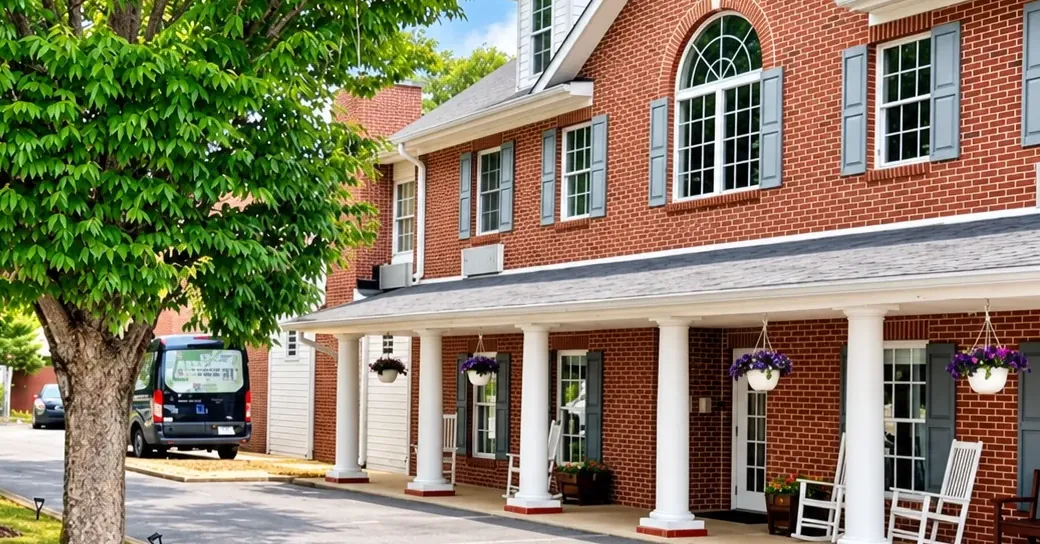
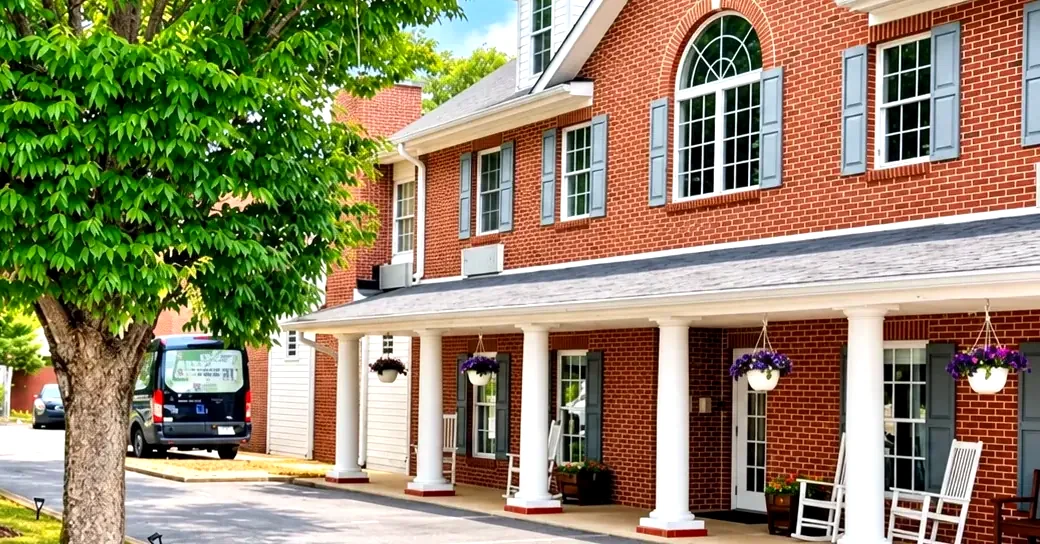
Home hero: bright photo with no dark overlay, text on a white panel

diff --git a/public/index.html b/public/index.html
@@ -17,7 +17,7 @@
   <link rel="preconnect" href="https://fonts.googleapis.com">
   <link rel="preconnect" href="https://fonts.gstatic.com" crossorigin>
   <link href="https://fonts.googleapis.com/css2?family=Montserrat:wght@500;600;700&amp;family=Open+Sans:ital,wght@0,400;0,600;0,700;1,400&amp;display=swap" rel="stylesheet">
-  <link rel="stylesheet" href="/assets/css/main.css?v=37420e40">
+  <link rel="stylesheet" href="/assets/css/main.css?v=fd787a46">
   <!-- Google tag: Ads conversion tracking + GA4. IDs stamped in by setup-ids.sh -->
   <script async src="https://www.googletagmanager.com/gtag/js?id=AW_CONVERSION_ID"></script>
   <script>
@@ -111,9 +111,11 @@
 <main id="main">
 <section class="hero hero-photo hero-landing" style="background-image:url('/assets/img/hero-exterior.webp')">
   <div class="container">
-    <h1><span class="hero-kicker">Assisted Living in</span> Hixson, Tennessee</h1>
-    <p class="tagline">A warm and welcoming community where personalized care, meaningful relationships, and a vibrant lifestyle come together.</p>
-    <a href="/contact-us/" class="btn btn-primary btn-arrow">Schedule a Tour <span aria-hidden="true">&rarr;</span></a>
+    <div class="hero-panel">
+      <h1><span class="hero-kicker">Assisted Living in</span> Hixson, Tennessee</h1>
+      <p class="tagline">A warm and welcoming community where personalized care, meaningful relationships, and a vibrant lifestyle come together.</p>
+      <a href="/contact-us/" class="btn btn-primary btn-arrow">Schedule a Tour <span aria-hidden="true">&rarr;</span></a>
+    </div>
   </div>
 </section>
 

diff --git a/public/assets/css/main.css b/public/assets/css/main.css
@@ -618,3 +618,12 @@ h3 { font-weight: 600; font-size: 1.15rem; }
 .main-nav a, .main-nav .has-sub > button, .phone-link { font-family: var(--font-ui); font-weight: 600; font-size: 0.95rem; }
 .feature-strip li, .pillars strong, .icon-grid strong, .card h3, .contact-info-card h3, .site-footer h3, .testimonial cite { font-family: var(--font-ui); }
 .icon-grid strong { font-size: 1.02rem; font-weight: 600; }
+
+/* Home hero: bright photo, no dark overlay; text sits on a soft white panel */
+.hero-landing::before { background: linear-gradient(90deg, rgba(255,255,255,0.08) 0%, rgba(255,255,255,0) 100%); }
+.hero-landing { background-position: center 58%; }
+.hero-landing .hero-panel { display: inline-block; max-width: 620px; background: rgba(255,255,255,0.90); border-radius: var(--radius); padding: 2rem 2.25rem; box-shadow: 0 10px 40px rgba(20,40,60,0.18); border-left: 5px solid var(--green); }
+.hero-landing h1 { color: var(--navy); text-shadow: none; font-size: clamp(2rem, 4.4vw, 3.2rem); }
+.hero-landing .tagline { color: var(--ink); text-shadow: none; }
+.hero-landing .hero-kicker { color: var(--green); }
+@media (max-width: 760px) { .hero-landing .hero-panel { padding: 1.5rem 1.25rem; max-width: 100%; } .hero-landing { background-position: 62% 55%; } }

diff --git a/content/index.html b/content/index.html
@@ -6,9 +6,11 @@ nav: home
 -->
 <section class="hero hero-photo hero-landing" style="background-image:url('/assets/img/hero-exterior.webp')">
   <div class="container">
-    <h1><span class="hero-kicker">Assisted Living in</span> Hixson, Tennessee</h1>
-    <p class="tagline">A warm and welcoming community where personalized care, meaningful relationships, and a vibrant lifestyle come together.</p>
-    <a href="/contact-us/" class="btn btn-primary btn-arrow">Schedule a Tour <span aria-hidden="true">&rarr;</span></a>
+    <div class="hero-panel">
+      <h1><span class="hero-kicker">Assisted Living in</span> Hixson, Tennessee</h1>
+      <p class="tagline">A warm and welcoming community where personalized care, meaningful relationships, and a vibrant lifestyle come together.</p>
+      <a href="/contact-us/" class="btn btn-primary btn-arrow">Schedule a Tour <span aria-hidden="true">&rarr;</span></a>
+    </div>
   </div>
 </section>
 

diff --git a/public/404.html b/public/404.html
@@ -17,7 +17,7 @@
   <link rel="preconnect" href="https://fonts.googleapis.com">
   <link rel="preconnect" href="https://fonts.gstatic.com" crossorigin>
   <link href="https://fonts.googleapis.com/css2?family=Montserrat:wght@500;600;700&amp;family=Open+Sans:ital,wght@0,400;0,600;0,700;1,400&amp;display=swap" rel="stylesheet">
-  <link rel="stylesheet" href="/assets/css/main.css?v=37420e40">
+  <link rel="stylesheet" href="/assets/css/main.css?v=fd787a46">
   <!-- Google tag: Ads conversion tracking + GA4. IDs stamped in by setup-ids.sh -->
   <script async src="https://www.googletagmanager.com/gtag/js?id=AW_CONVERSION_ID"></script>
   <script>

diff --git a/public/about-us/index.html b/public/about-us/index.html
@@ -17,7 +17,7 @@
   <link rel="preconnect" href="https://fonts.googleapis.com">
   <link rel="preconnect" href="https://fonts.gstatic.com" crossorigin>
   <link href="https://fonts.googleapis.com/css2?family=Montserrat:wght@500;600;700&amp;family=Open+Sans:ital,wght@0,400;0,600;0,700;1,400&amp;display=swap" rel="stylesheet">
-  <link rel="stylesheet" href="/assets/css/main.css?v=37420e40">
+  <link rel="stylesheet" href="/assets/css/main.css?v=fd787a46">
   <!-- Google tag: Ads conversion tracking + GA4. IDs stamped in by setup-ids.sh -->
   <script async src="https://www.googletagmanager.com/gtag/js?id=AW_CONVERSION_ID"></script>
   <script>

diff --git a/public/ada-compliance/index.html b/public/ada-compliance/index.html
@@ -17,7 +17,7 @@
   <link rel="preconnect" href="https://fonts.googleapis.com">
   <link rel="preconnect" href="https://fonts.gstatic.com" crossorigin>
   <link href="https://fonts.googleapis.com/css2?family=Montserrat:wght@500;600;700&amp;family=Open+Sans:ital,wght@0,400;0,600;0,700;1,400&amp;display=swap" rel="stylesheet">
-  <link rel="stylesheet" href="/assets/css/main.css?v=37420e40">
+  <link rel="stylesheet" href="/assets/css/main.css?v=fd787a46">
   <!-- Google tag: Ads conversion tracking + GA4. IDs stamped in by setup-ids.sh -->
   <script async src="https://www.googletagmanager.com/gtag/js?id=AW_CONVERSION_ID"></script>
   <script>

diff --git a/public/amenities/index.html b/public/amenities/index.html
@@ -17,7 +17,7 @@
   <link rel="preconnect" href="https://fonts.googleapis.com">
   <link rel="preconnect" href="https://fonts.gstatic.com" crossorigin>
   <link href="https://fonts.googleapis.com/css2?family=Montserrat:wght@500;600;700&amp;family=Open+Sans:ital,wght@0,400;0,600;0,700;1,400&amp;display=swap" rel="stylesheet">
-  <link rel="stylesheet" href="/assets/css/main.css?v=37420e40">
+  <link rel="stylesheet" href="/assets/css/main.css?v=fd787a46">
   <!-- Google tag: Ads conversion tracking + GA4. IDs stamped in by setup-ids.sh -->
   <script async src="https://www.googletagmanager.com/gtag/js?id=AW_CONVERSION_ID"></script>
   <script>

diff --git a/public/assisted-living/index.html b/public/assisted-living/index.html
@@ -17,7 +17,7 @@
   <link rel="preconnect" href="https://fonts.googleapis.com">
   <link rel="preconnect" href="https://fonts.gstatic.com" crossorigin>
   <link href="https://fonts.googleapis.com/css2?family=Montserrat:wght@500;600;700&amp;family=Open+Sans:ital,wght@0,400;0,600;0,700;1,400&amp;display=swap" rel="stylesheet">
-  <link rel="stylesheet" href="/assets/css/main.css?v=37420e40">
+  <link rel="stylesheet" href="/assets/css/main.css?v=fd787a46">
   <!-- Google tag: Ads conversion tracking + GA4. IDs stamped in by setup-ids.sh -->
   <script async src="https://www.googletagmanager.com/gtag/js?id=AW_CONVERSION_ID"></script>
   <script>

diff --git a/public/contact-us/index.html b/public/contact-us/index.html
@@ -17,7 +17,7 @@
   <link rel="preconnect" href="https://fonts.googleapis.com">
   <link rel="preconnect" href="https://fonts.gstatic.com" crossorigin>
   <link href="https://fonts.googleapis.com/css2?family=Montserrat:wght@500;600;700&amp;family=Open+Sans:ital,wght@0,400;0,600;0,700;1,400&amp;display=swap" rel="stylesheet">
-  <link rel="stylesheet" href="/assets/css/main.css?v=37420e40">
+  <link rel="stylesheet" href="/assets/css/main.css?v=fd787a46">
   <!-- Google tag: Ads conversion tracking + GA4. IDs stamped in by setup-ids.sh -->
   <script async src="https://www.googletagmanager.com/gtag/js?id=AW_CONVERSION_ID"></script>
   <script>

diff --git a/public/gallery/index.html b/public/gallery/index.html
@@ -17,7 +17,7 @@
   <link rel="preconnect" href="https://fonts.googleapis.com">
   <link rel="preconnect" href="https://fonts.gstatic.com" crossorigin>
   <link href="https://fonts.googleapis.com/css2?family=Montserrat:wght@500;600;700&amp;family=Open+Sans:ital,wght@0,400;0,600;0,700;1,400&amp;display=swap" rel="stylesheet">
-  <link rel="stylesheet" href="/assets/css/main.css?v=37420e40">
+  <link rel="stylesheet" href="/assets/css/main.css?v=fd787a46">
   <!-- Google tag: Ads conversion tracking + GA4. IDs stamped in by setup-ids.sh -->
   <script async src="https://www.googletagmanager.com/gtag/js?id=AW_CONVERSION_ID"></script>
   <script>

diff --git a/public/nondiscrimination/index.html b/public/nondiscrimination/index.html
@@ -17,7 +17,7 @@
   <link rel="preconnect" href="https://fonts.googleapis.com">
   <link rel="preconnect" href="https://fonts.gstatic.com" crossorigin>
   <link href="https://fonts.googleapis.com/css2?family=Montserrat:wght@500;600;700&amp;family=Open+Sans:ital,wght@0,400;0,600;0,700;1,400&amp;display=swap" rel="stylesheet">
-  <link rel="stylesheet" href="/assets/css/main.css?v=37420e40">
+  <link rel="stylesheet" href="/assets/css/main.css?v=fd787a46">
   <!-- Google tag: Ads conversion tracking + GA4. IDs stamped in by setup-ids.sh -->
   <script async src="https://www.googletagmanager.com/gtag/js?id=AW_CONVERSION_ID"></script>
   <script>

diff --git a/public/privacy-policy/index.html b/public/privacy-policy/index.html
@@ -17,7 +17,7 @@
   <link rel="preconnect" href="https://fonts.googleapis.com">
   <link rel="preconnect" href="https://fonts.gstatic.com" crossorigin>
   <link href="https://fonts.googleapis.com/css2?family=Montserrat:wght@500;600;700&amp;family=Open+Sans:ital,wght@0,400;0,600;0,700;1,400&amp;display=swap" rel="stylesheet">
-  <link rel="stylesheet" href="/assets/css/main.css?v=37420e40">
+  <link rel="stylesheet" href="/assets/css/main.css?v=fd787a46">
   <!-- Google tag: Ads conversion tracking + GA4. IDs stamped in by setup-ids.sh -->
   <script async src="https://www.googletagmanager.com/gtag/js?id=AW_CONVERSION_ID"></script>
   <script>
